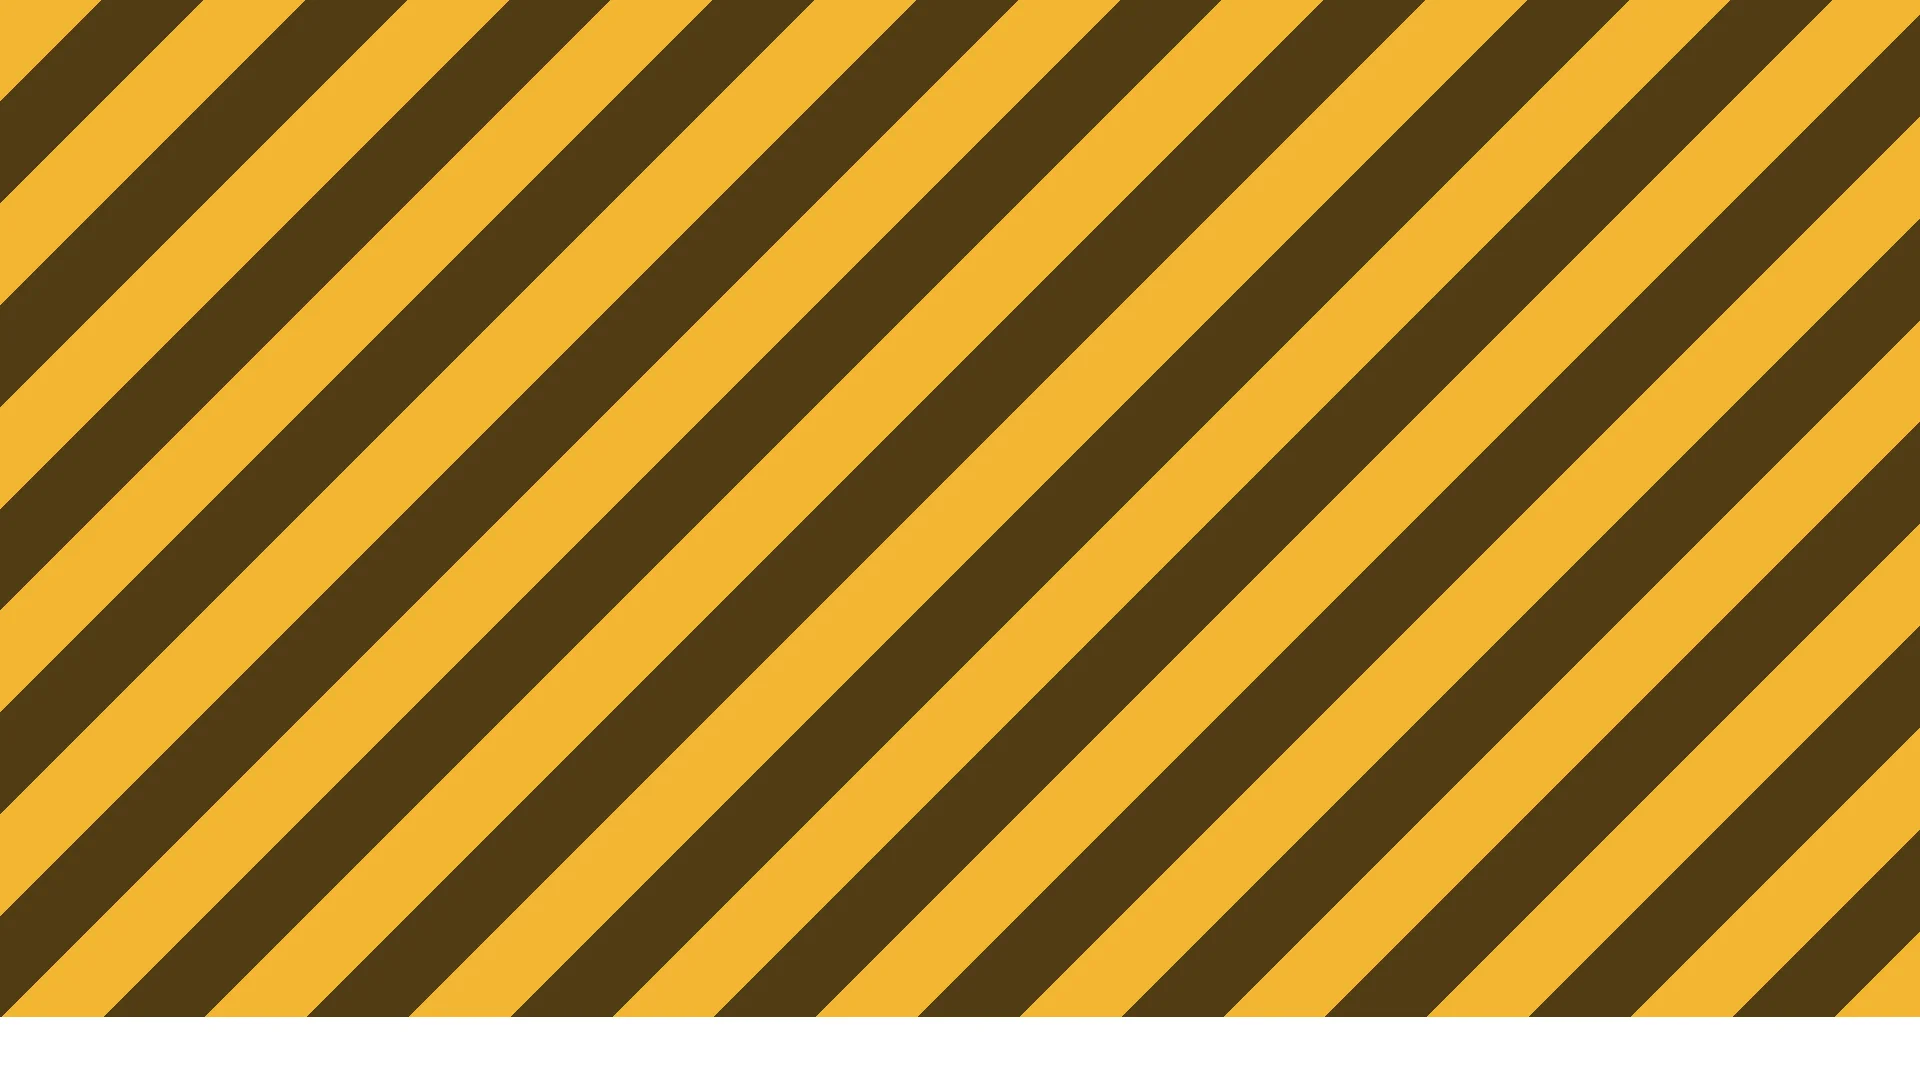
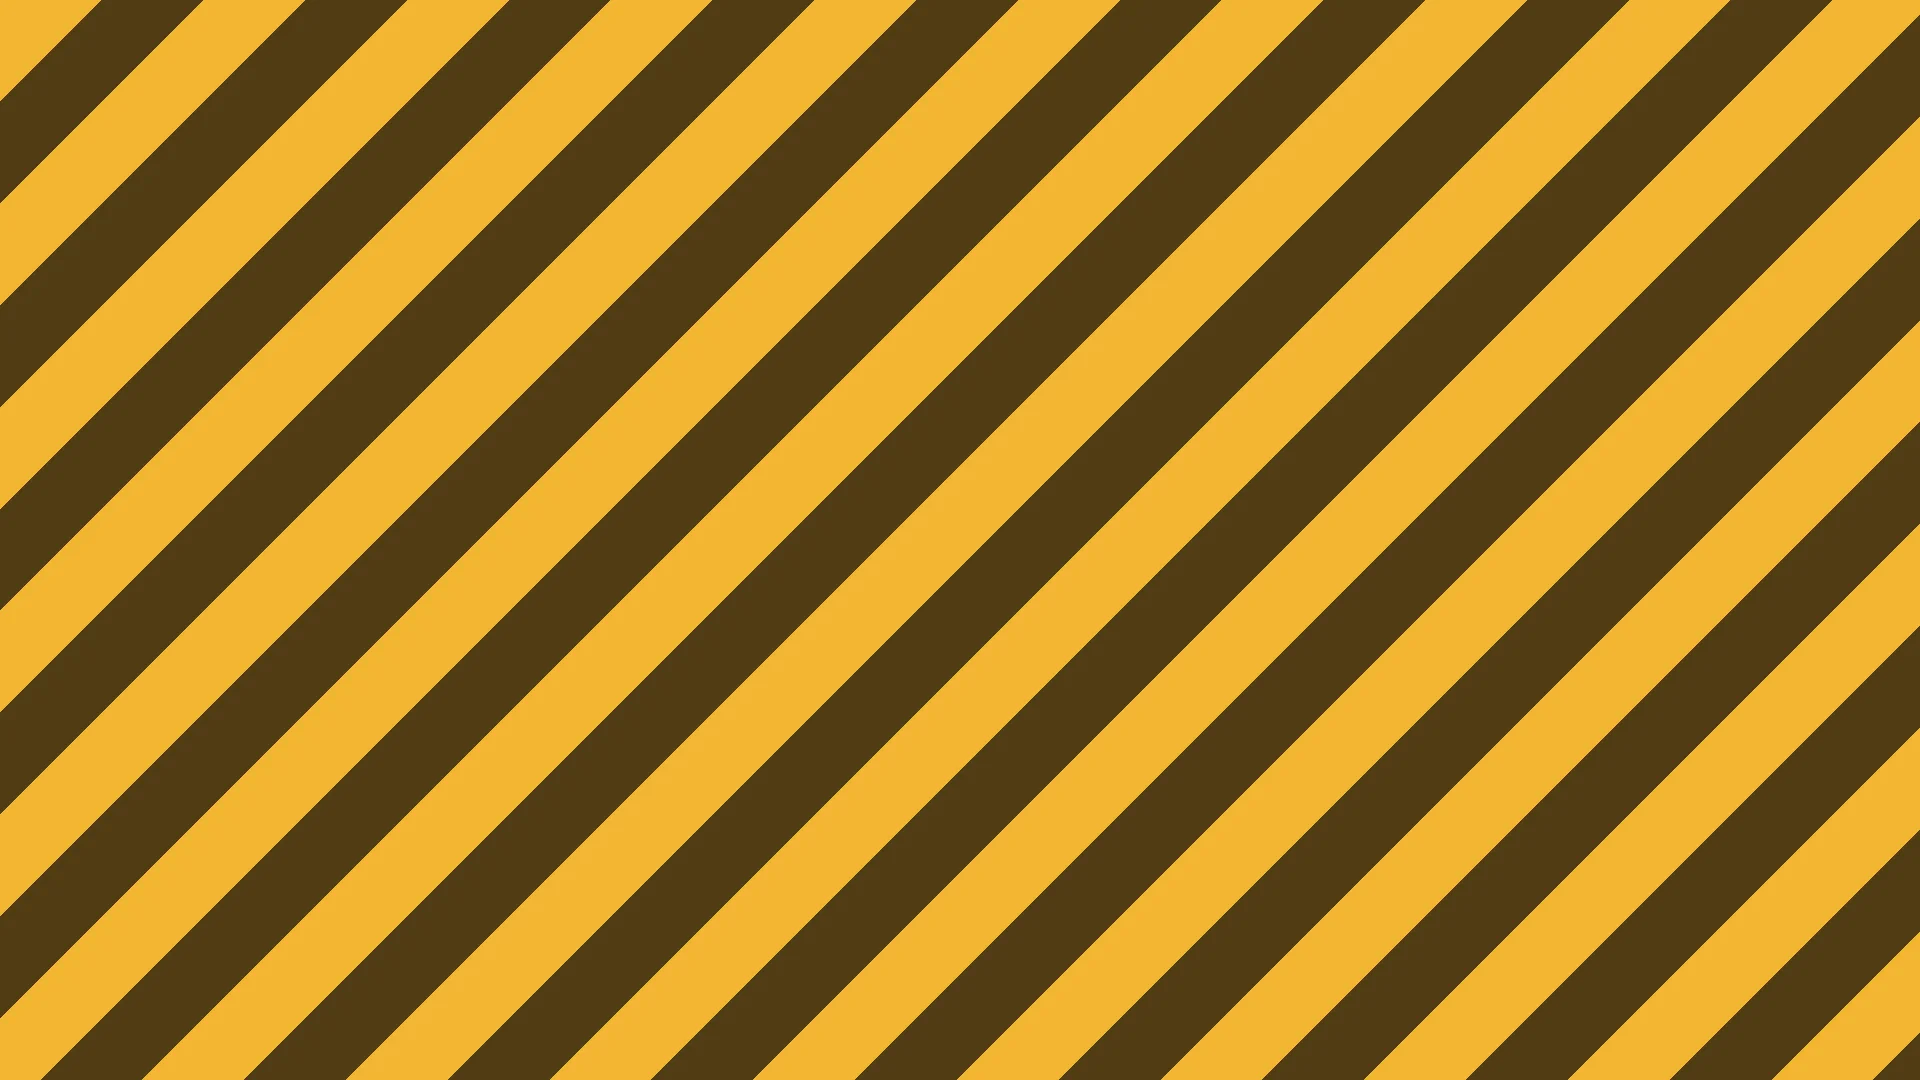
Smaller spine M, turning with the case; fix strip at the bottom of the Coming Soon backdrop

Changed region(s): [[0.0, 0.9167, 1.0, 1.0]]

diff --git a/styles.css b/styles.css
@@ -185,7 +185,7 @@ body::before {
   color: var(--case-color);
 }
 .spine-logo { width: 22px; height: 22px; }
-.spine-logo--image { position: relative; width: 24px; height: 24px; border-radius: 0; background: none; color: var(--case-ink); }
+.spine-logo--image { position: relative; width: 17px; height: 17px; border-radius: 0; background: none; color: var(--case-ink); }
 .spine-logo--image > .studio-logo--image { position: absolute; inset: 0; width: auto; height: auto; }
 .spine-top {
   flex: none;
@@ -893,8 +893,7 @@ body::before {
   }
   .shelf-row::before { left: 36px; right: 36px; height: 100%; }
   .shelf-row::after { left: 44px; right: 44px; }
-  .spine-art .platform-icon,
-  .spine-art .spine-logo--image { transform: rotate(90deg); }
+  .spine-art .platform-icon { transform: rotate(90deg); }
   .spine-art .platform-icon[data-platform="switch"],
   .spine-art .platform-icon[data-platform="mobile"] { transform: rotate(90deg) scale(.86); }
   .spine-art::after {

diff --git a/index.html b/index.html
@@ -8,7 +8,7 @@
   <meta name="description" content="Indie games by Mister Morris Games, the studio behind Haiku, the Robot. Choose a game and take a look inside.">
   <meta name="theme-color" content="#15100c">
   <link rel="icon" href="favicon.svg" type="image/svg+xml">
-  <meta property="og:image" content="https://mistermorrisgames.github.io/website/images/share.jpg?v=10">
+  <meta property="og:image" content="https://mistermorrisgames.github.io/website/images/share.jpg?v=11">
   <meta property="og:image:width" content="1200">
   <meta property="og:image:height" content="630">
   <meta property="og:image:alt" content="A stack of game cases: Haiku, the Robot; Rusty's Retirement; Skatehouse; Pegs X Stickers; and one coming soon">
